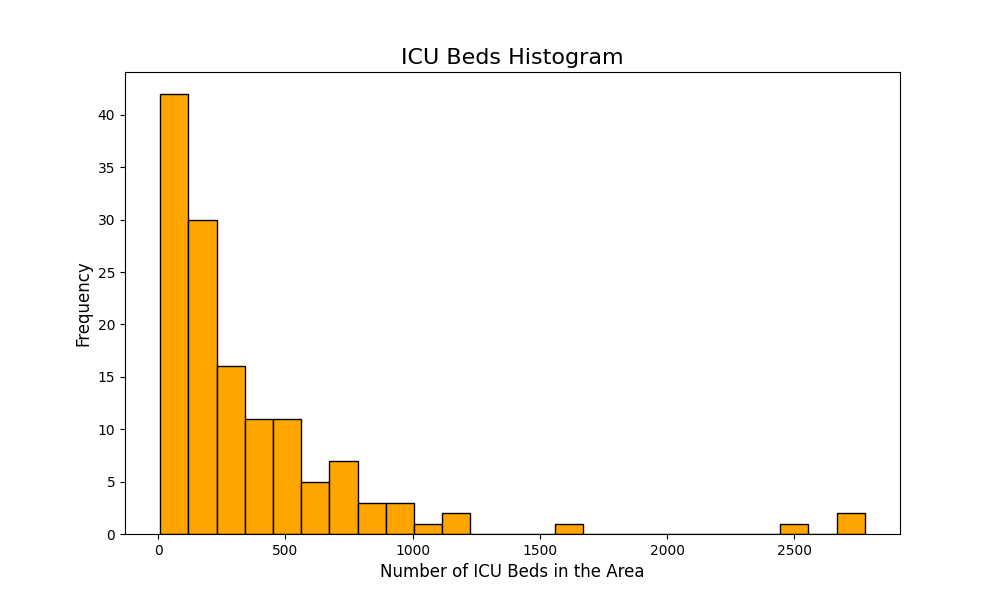
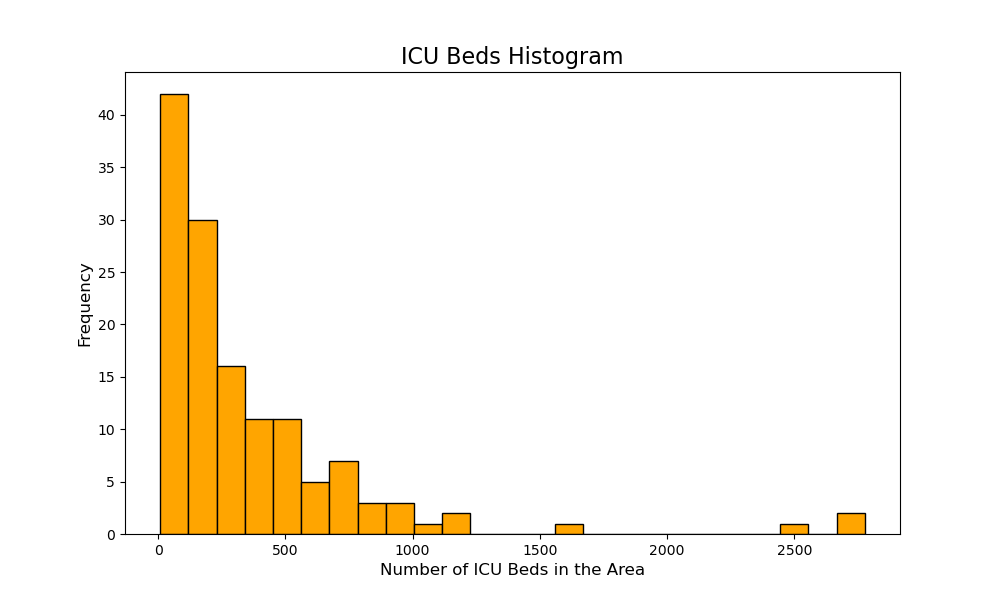
test

diff --git a/main.py b/main.py
@@ -1,9 +1,13 @@
-import pandas as pd
+import polars as pl
 import matplotlib.pyplot as plt
 
-df = pd.read_csv(
+df = pl.read_csv(
     "https://raw.githubusercontent.com/fivethirtyeight/data/master/covid-geography/mmsa-icu-beds.csv"
 )
+df = df.filter(pl.col("icu_beds") != "NA").with_columns(
+    pl.col("icu_beds").cast(pl.Int64)
+)
+
 
 # summary statistics (mean, median, standard deviation)
 def statistics(p=False):
@@ -33,7 +37,7 @@ def count_row():
 # visualization
 def create_hist():
     plt.figure(figsize=(10, 6))
-    plt.hist(df["icu_beds"], bins=25, color="orange", edgecolor="black")
+    plt.hist(df["icu_beds"].to_list(), bins=25, color="orange", edgecolor="black")
     plt.title("ICU Beds Histogram", fontsize=16)
     plt.xlabel("Number of ICU Beds in the Area", fontsize=12)
     plt.ylabel("Frequency", fontsize=12)

diff --git a/test_main.py b/test_main.py
@@ -8,7 +8,7 @@ def test_count_col():
 
 def test_count_row():
     num_row = count_row()
-    assert num_row == 136
+    assert num_row == 135
 
 
 def test_statistics():

diff --git a/README.md b/README.md
@@ -1,10 +1,16 @@
-# Leo_Chen_Mini_2
+# Leo Chen Mini 3
 
-[![CI](https://github.com/nogibjj/Leo_Chen_Mini_2/actions/workflows/hello.yml/badge.svg)](https://github.com/nogibjj/Leo_Chen_Mini_2/actions/workflows/hello.yml)
+[![CI](https://github.com/nogibjj/Leo_Chen_Mini_3/actions/workflows/hello.yml/badge.svg)](https://github.com/nogibjj/Leo_Chen_Mini_3/actions/workflows/hello.yml)
 
-Python script using Pandas for descriptive statistics
+Python script using Polars for descriptive statistics
 
-A summary report that includes summary statistics and a histogram will be generated during runtime.
+Read a dataset (CSV)
+
+Generate summary statistics (mean, median, standard deviation)
+
+Create one data visualization
+
+**A summary report that includes summary statistics and a histogram will be generated during runtime.**
 
 Repository Contents:
 
@@ -22,6 +28,32 @@ Repository Contents:
 
 * `README.md`
 
+* `bed_hist.png`
+
+* `summary_report.md`
+
+## Data Source
+
+**covid-geography**
+
+This file contains the data behind the story [How One High-Risk Community In Rural South Carolina Is Bracing For COVID-19](https://fivethirtyeight.com/features/how-one-high-risk-community-in-rural-south-carolina-is-bracing-for-covid-19/).
+
+`mmsa-icu-beds.csv` combines data from the Centers for Disease Control and Prevention’s [Behavioral Risk Factor Surveillance System (BRFSS)](https://www.cdc.gov/brfss/smart/smart_2017.html), a collection of health-related surveys conducted each year of more than 400,000 Americans, and the [Kaiser Family Foundation](https://khn.org/news/as-coronavirus-spreads-widely-millions-of-older-americans-live-in-counties-with-no-icu-beds/#lookup) to show the number of people who are at high risk of becoming seriously ill from COVID-19 per ICU bed in each metropolitan area, micropolitan area or metropolitan division for which we have data.
+
+Column | Description
+-------|-------------
+`MMSA` | The name of the metropolitan area, micropolitan area or metropolitan division available in the CDC’s BRFSS
+`total_percent_at_risk` | The percent of individuals in that area that are at high risk of becoming seriously ill from COVID-19, per CDC’s BRFSS
+`high_risk_per_icu_bed` | The number of high risk individuals per ICU bed in that area
+`high_risk_per_hospital` |  The number of high risk individuals per hospital in that area
+`icu_beds` | The number of ICU beds in the area, based on the Kaiser Family Foundation’s data
+`hospitals` | The number of hospitals in the area, based on the Kaiser Family Foundation’s data
+`total_at_risk` | The total number of high risk individuals in the area, per CDC’s BRFSS
+
+*This project focuses on one column - `icu_beds`.*
+
+[Link to data](https://github.com/fivethirtyeight/data/tree/master/covid-geography)
+
 ## Setup Instructions
 
 1. Open codespaces
@@ -32,7 +64,9 @@ Repository Contents:
 
 ## Result
 
-See generated summary_report.md for best result.
+Mean = 360.18518518518516, Median = 221.0, Standard Deviation = 450.5805075774296
+
+See generated `summary_report.md` for best result.
 
 Attaching the histogram below for quick reference.
 

diff --git a/summary_report.md b/summary_report.md
@@ -2,7 +2,7 @@
 
 ## Summary Statistics
 
-Mean = 360.18518518518516, Median = 221.0, Standard Deviation = 450.58050757742967
+Mean = 360.18518518518516, Median = 221.0, Standard Deviation = 450.5805075774296
 
 ## Visualization: Histogram
 
